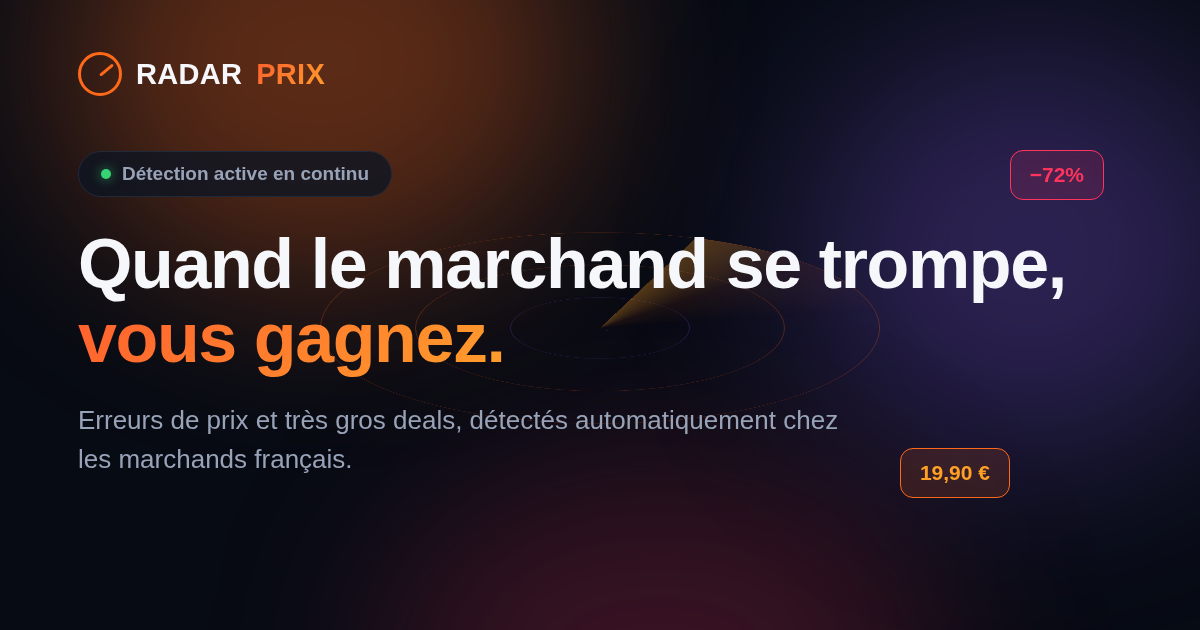
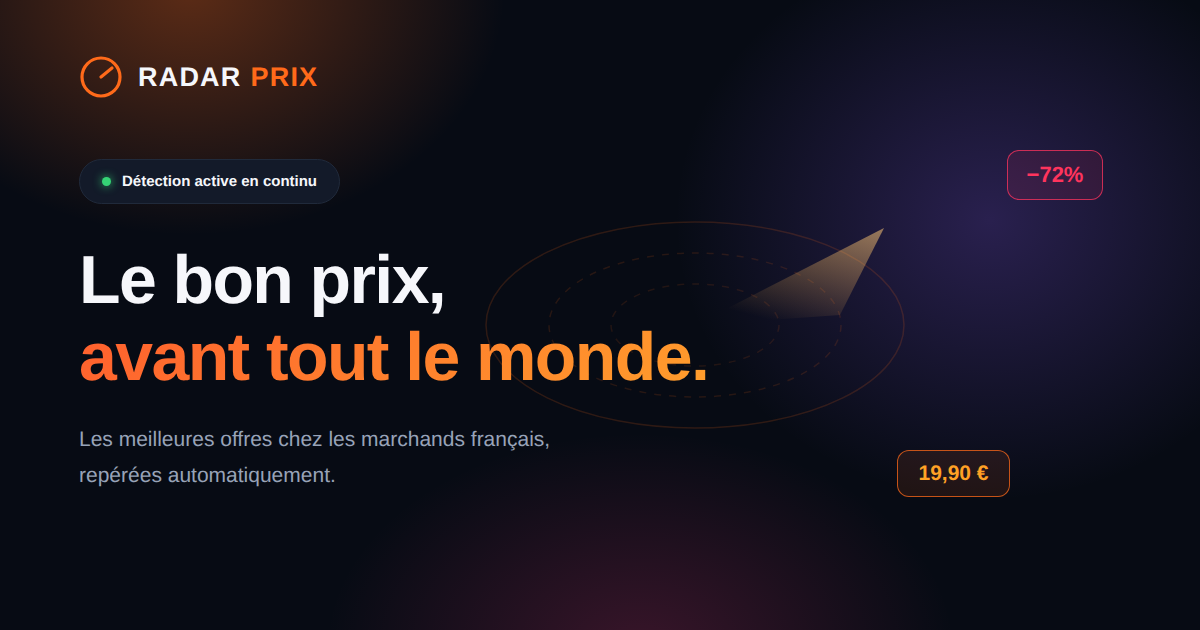
Recentrer l'accroche publique sur la comparaison de prix
« Quand le marchand se trompe, vous gagnez » présentait le site comme
adversaire des marchands, sur la page d'accueil, dans le titre d'onglet et
dans tous les aperçus de lien. Or ce sont ces mêmes marchands dont RadarPrix
sollicite le partenariat via les réseaux d'affiliation : un relecteur ouvre
le site et lit cette promesse en premier.

L'accroche devient « Le bon prix, avant tout le monde. » — même promesse de
rapidité et d'avantage, sans désigner l'erreur du marchand comme le produit.
La détection d'anomalies reste inchangée et reste expliquée à l'intérieur du
site, dans sa section dédiée et dans la FAQ.

L'image de partage portait le slogan gravé en dur : son gabarit est désormais
versionné (scripts/og-image.html) et régénérable (scripts/og-image.mjs), pour
que PNG et balises <meta> ne puissent plus diverger silencieusement.

Claude-Session: https://claude.ai/code/session_01JJZyYm812goTwPEL6dap5f

diff --git a/scripts/og-image.html b/scripts/og-image.html
@@ -1,0 +1,146 @@
+<!doctype html>
+<!--
+  Source de l'image de partage (public/og-image.png, 1200x630).
+
+  Cette image est un PNG : l'accroche y est gravée en dur, elle ne suit donc
+  pas les balises <meta> de index.html. Sans ce gabarit, changer le slogan du
+  site laissait l'ancien affiché dans tous les aperçus WhatsApp / Discord / X
+  — c'est exactement ce qui est arrivé. Le gabarit est donc versionné à côté
+  du PNG pour que les deux puissent être remis d'accord.
+
+  Régénérer après modification :
+    node scripts/og-image.mjs
+
+  Les couleurs reprennent theme.js (T.bg, T.emberSolid, T.sub, T.pink…).
+  Police : Liberation Sans, présente sur les machines de rendu Linux et
+  métriquement compatible Arial — le rendu reste stable d'une machine à
+  l'autre, ce qu'un webfont chargé par le réseau ne garantirait pas.
+-->
+<html lang="fr">
+  <head>
+    <meta charset="UTF-8" />
+    <style>
+      * { margin: 0; padding: 0; box-sizing: border-box; }
+
+      body {
+        width: 1200px;
+        height: 630px;
+        background: #070B14;
+        font-family: "Liberation Sans", Arial, system-ui, sans-serif;
+        position: relative;
+        overflow: hidden;
+      }
+
+      /* Halos colorés : orange en haut à gauche (la marque), violet à droite
+         et magenta en bas (profondeur). Rendus en radial-gradient plutôt
+         qu'en blur d'un bloc, pour éviter les bandes de dégradé visibles
+         que produit le filtre de flou à cette taille. */
+      .glow { position: absolute; border-radius: 50%; }
+      .glow-ember  { width: 900px; height: 700px; left: -260px; top: -360px;
+                     background: radial-gradient(closest-side, rgba(255,106,26,.34), transparent 70%); }
+      .glow-purple { width: 900px; height: 800px; right: -240px; top: -180px;
+                     background: radial-gradient(closest-side, rgba(139,92,246,.26), transparent 70%); }
+      .glow-pink   { width: 900px; height: 620px; left: 190px; bottom: -330px;
+                     background: radial-gradient(closest-side, rgba(255,61,127,.20), transparent 70%); }
+
+      /* Radar décoratif, volontairement discret : il ne doit jamais gêner la
+         lecture du titre qui passe par-dessus. */
+      .radar { position: absolute; left: 695px; top: 325px; transform: translate(-50%, -50%); }
+
+      .content { position: relative; padding: 55px 79px; height: 100%; }
+
+      .logo { display: flex; align-items: center; gap: 15px; }
+      .logo-mark { width: 44px; height: 44px; }
+      .logo-text {
+        font-size: 27px; font-weight: bold; letter-spacing: 1.2px;
+        color: #F6F7FB;
+      }
+      .logo-text span { color: #FF6A1A; margin-left: 9px; }
+
+      .pill {
+        display: inline-flex; align-items: center; gap: 11px;
+        margin-top: 60px; padding: 13px 22px;
+        background: #131A29; border: 1px solid #202A3B; border-radius: 999px;
+        font-size: 15px; font-weight: bold; color: #F6F7FB;
+      }
+      .pill-dot {
+        width: 9px; height: 9px; border-radius: 50%; background: #35D475;
+        box-shadow: 0 0 10px rgba(53,212,117,.9);
+      }
+
+      h1 {
+        margin-top: 38px;
+        font-size: 68px; font-weight: bold; line-height: 1.13;
+        letter-spacing: -1.6px; color: #F6F7FB;
+      }
+      /* Dégradé orange appliqué au texte : même ember que T.ember. */
+      h1 .accent {
+        background: linear-gradient(135deg, #FF5F2E 0%, #FF9E2C 100%);
+        -webkit-background-clip: text;
+        -webkit-text-fill-color: transparent;
+      }
+
+      p.tagline {
+        margin-top: 26px; max-width: 790px;
+        font-size: 21px; line-height: 1.72; color: #98A3B8;
+      }
+
+      /* Deux badges d'ambiance qui montrent le produit sans le décrire :
+         une remise forte et un prix. */
+      .badge {
+        position: absolute; display: flex; align-items: center; justify-content: center;
+        font-weight: bold; border-radius: 12px;
+      }
+      .badge-discount {
+        right: 97px; top: 150px; width: 96px; height: 50px;
+        border: 1.6px solid rgba(255,52,93,.75); background: rgba(255,52,93,.10);
+        color: #FF345D; font-size: 22px;
+      }
+      .badge-price {
+        right: 190px; top: 450px; width: 113px; height: 47px;
+        border: 1.6px solid rgba(255,106,26,.75); background: rgba(255,106,26,.10);
+        color: #FFA125; font-size: 21px;
+      }
+    </style>
+  </head>
+  <body>
+    <div class="glow glow-ember"></div>
+    <div class="glow glow-purple"></div>
+    <div class="glow glow-pink"></div>
+
+    <svg class="radar" width="430" height="430" viewBox="0 0 430 430" fill="none">
+      <defs>
+        <linearGradient id="sweep" x1="0.5" y1="1" x2="1" y2="0">
+          <stop stop-color="#FFB24D" stop-opacity="0" />
+          <stop offset="1" stop-color="#FFC978" stop-opacity=".55" />
+        </linearGradient>
+      </defs>
+      <ellipse cx="215" cy="215" rx="209" ry="103" stroke="#FF6A1A" stroke-opacity=".16" stroke-width="1.5" />
+      <ellipse cx="215" cy="215" rx="146" ry="72"  stroke="#FF6A1A" stroke-opacity=".13" stroke-width="1.5" stroke-dasharray="7 8" />
+      <ellipse cx="215" cy="215" rx="84"  ry="41"  stroke="#FF6A1A" stroke-opacity=".11" stroke-width="1.5" stroke-dasharray="7 8" />
+      <!-- Faisceau de balayage : part du centre vers le haut-droit. -->
+      <path d="M215 215 L404 118 L360 205 Z" fill="url(#sweep)" />
+    </svg>
+
+    <div class="content">
+      <div class="logo">
+        <svg class="logo-mark" viewBox="0 0 44 44" fill="none">
+          <circle cx="22" cy="22" r="19" stroke="#FF6A1A" stroke-width="3.2" />
+          <path d="M22 22 L33 13" stroke="#FF6A1A" stroke-width="3.2" stroke-linecap="round" />
+        </svg>
+        <div class="logo-text">RADAR<span>PRIX</span></div>
+      </div>
+
+      <div class="pill"><span class="pill-dot"></span>Détection active en continu</div>
+
+      <h1>Le bon prix,<br /><span class="accent">avant tout le monde.</span></h1>
+
+      <p class="tagline">
+        Les meilleures offres chez les marchands français,<br />repérées automatiquement.
+      </p>
+    </div>
+
+    <div class="badge badge-discount">&minus;72%</div>
+    <div class="badge badge-price">19,90&nbsp;&euro;</div>
+  </body>
+</html>

diff --git a/index.html b/index.html
@@ -6,10 +6,10 @@
     <meta name="theme-color" content="#070B14" />
     <link rel="icon" type="image/svg+xml" href="/favicon.svg" />
 
-    <title>RadarPrix — Erreurs de prix et gros deals détectés automatiquement</title>
+    <title>RadarPrix — Les meilleures offres, détectées automatiquement</title>
     <meta
       name="description"
-      content="RadarPrix repère les erreurs de prix et les très gros deals chez les marchands français, en comparant les prix en continu. Alertes par email dès qu'une anomalie est détectée."
+      content="RadarPrix compare en continu les prix des marchands français et fait remonter les meilleures offres du moment : promotions, codes de réduction, produits offerts et baisses de prix inhabituelles. Alertes par email sur les produits suivis."
     />
     <link rel="canonical" href="https://radarprix-frontend.vercel.app/" />
 
@@ -40,21 +40,21 @@
     <meta property="og:site_name" content="RadarPrix" />
     <meta property="og:locale" content="fr_FR" />
     <meta property="og:url" content="https://radarprix-frontend.vercel.app/" />
-    <meta property="og:title" content="Quand le marchand se trompe, vous gagnez." />
+    <meta property="og:title" content="Le bon prix, avant tout le monde." />
     <meta
       property="og:description"
-      content="Erreurs de prix et très gros deals, détectés automatiquement chez les marchands français."
+      content="Les meilleures offres chez les marchands français, repérées automatiquement."
     />
     <meta property="og:image" content="https://radarprix-frontend.vercel.app/og-image.png" />
     <meta property="og:image:width" content="1200" />
     <meta property="og:image:height" content="630" />
-    <meta property="og:image:alt" content="RadarPrix — quand le marchand se trompe, vous gagnez." />
+    <meta property="og:image:alt" content="RadarPrix — le bon prix, avant tout le monde." />
 
     <meta name="twitter:card" content="summary_large_image" />
-    <meta name="twitter:title" content="Quand le marchand se trompe, vous gagnez." />
+    <meta name="twitter:title" content="Le bon prix, avant tout le monde." />
     <meta
       name="twitter:description"
-      content="Erreurs de prix et très gros deals, détectés automatiquement chez les marchands français."
+      content="Les meilleures offres chez les marchands français, repérées automatiquement."
     />
     <meta name="twitter:image" content="https://radarprix-frontend.vercel.app/og-image.png" />
   </head>

diff --git a/RadarPrixSite.jsx b/RadarPrixSite.jsx
@@ -1334,7 +1334,7 @@ function Footer({ setLegalPage, goHome, openTab, goToCommunity, authToken, onNee
               RADAR<span style={{ background: T.ember, WebkitBackgroundClip: "text", WebkitTextFillColor: "transparent" }}>PRIX</span>
             </div>
             <p style={{ fontSize: 12.5, color: T.sub, lineHeight: 1.6, marginBottom: 14, maxWidth: 240 }}>
-              RadarPrix détecte automatiquement les meilleurs deals et les erreurs de prix chez les marchands français.
+              RadarPrix repère automatiquement les meilleures offres chez les marchands français.
             </p>
             <div style={{ display: "flex", gap: 8 }}>
               {["message", "users", "share", "mail"].map((ic) => (
@@ -2208,7 +2208,7 @@ export default function RadarPrixSite() {
 
 
   useEffect(() => {
-    document.title = "RadarPrix — Le détecteur d'erreurs de prix";
+    document.title = "RadarPrix — Le détecteur de bonnes affaires";
   }, []);
 
   // Onglets "Gros deals" / "Erreurs de prix" : lecture instantanée du pool
@@ -2550,13 +2550,13 @@ export default function RadarPrixSite() {
                   className="rp-display fade-up"
                   style={{ fontSize: "clamp(30px, 6.6vw, 58px)", fontWeight: 900, lineHeight: 1.08, letterSpacing: "-0.02em", animationDelay: "60ms" }}
                 >
-                  Quand le marchand se trompe,
+                  Le bon prix,
                   <br />
-                  <span style={{ background: T.ember, WebkitBackgroundClip: "text", WebkitTextFillColor: "transparent" }}>vous gagnez.</span>
+                  <span style={{ background: T.ember, WebkitBackgroundClip: "text", WebkitTextFillColor: "transparent" }}>avant tout le monde.</span>
                 </h1>
 
                 <p className="fade-up" style={{ maxWidth: 540, margin: "20px auto 32px", color: T.sub, fontSize: "clamp(14px, 1.6vw, 16.5px)", lineHeight: 1.65, animationDelay: "120ms" }}>
-                  Erreurs de prix et très gros deals, détectés par un algorithme qui compare en continu les prix réels des marchands français.
+                  Un algorithme compare en continu les prix réels des marchands français et fait remonter les offres qui sortent vraiment de l'ordinaire.
                 </p>
 
                 <div className="fade-up" style={{ maxWidth: 540, margin: "0 auto", animationDelay: "180ms" }}>
